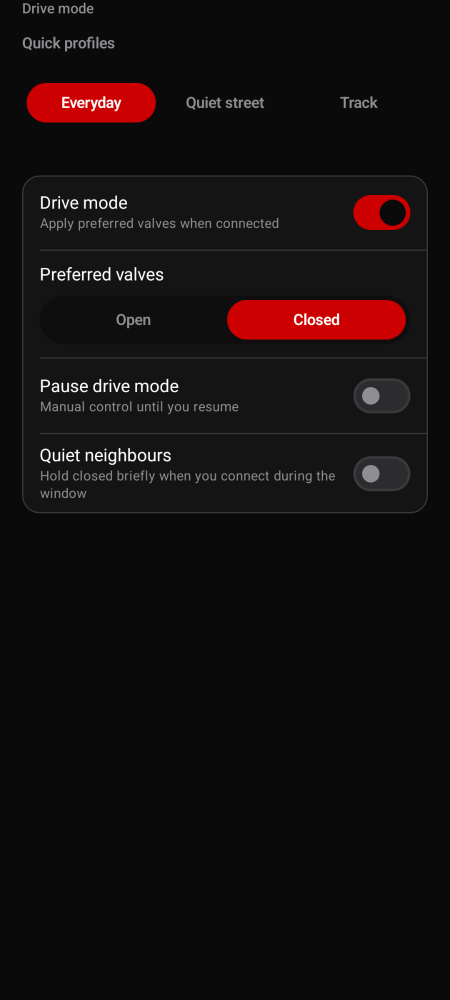
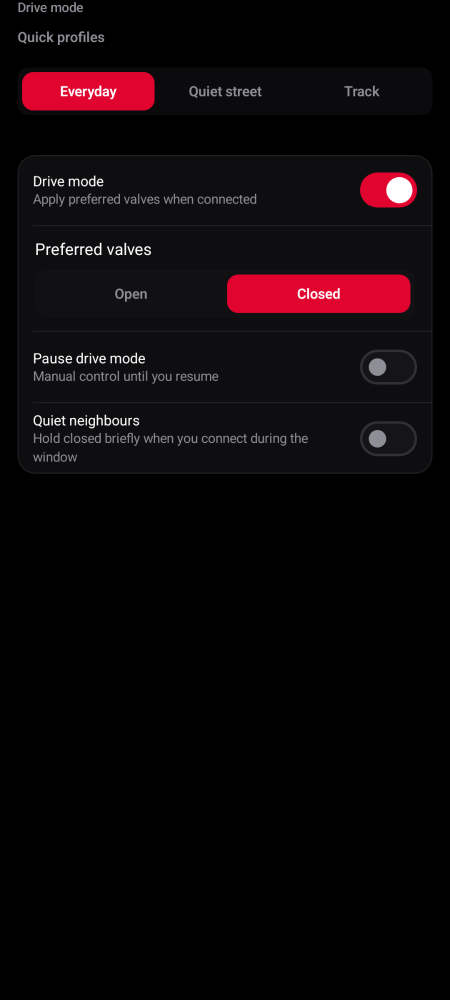
Document 0.3.4: redesign, fixes, and new features.
Store listing, release notes, and privacy policy cover the Wear tile, Activity, theme suggestion, and companion pairing. The style guide describes the flat Obsidian system and brand palettes; SPEC, DOCS, README, ROADMAP, TESTING, CHANGELOG, and DECISIONS match the code. Screenshots are refreshed. The API 27 navigation-bar attribute moves to values-v27 so lint passes, and CI installs SDK 35 for the watch build.

diff --git a/app/src/main/java/com/akrapovic/soundkit/community/ui/control/ConnectedDeviceScreen.kt b/app/src/main/java/com/akrapovic/soundkit/community/ui/control/ConnectedDeviceScreen.kt
@@ -23,7 +23,8 @@ import androidx.compose.runtime.LaunchedEffect
 import androidx.compose.runtime.getValue
 import androidx.compose.runtime.mutableIntStateOf
 import androidx.compose.runtime.mutableStateOf
-import androidx.compose.runtime.produceState
+import androidx.compose.runtime.mutableLongStateOf
+import androidx.compose.runtime.setValue
 import androidx.compose.runtime.remember
 import androidx.compose.ui.Alignment
 import androidx.compose.ui.Modifier
@@ -333,10 +334,12 @@ private fun ReceiverChip(state: SoundKitUiState, device: SoundKitDevice?) {
 /** "Confirmed just now", "Confirmed 12 s ago", or "Confirmed 3 min ago", refreshed every 10 s. */
 @Composable
 private fun rememberConfirmedLabel(confirmedAtMillis: Long?): String? {
-    val now by produceState(initialValue = System.currentTimeMillis(), confirmedAtMillis) {
+    var now by remember { mutableLongStateOf(System.currentTimeMillis()) }
+    LaunchedEffect(confirmedAtMillis) {
+        now = System.currentTimeMillis()
         while (confirmedAtMillis != null) {
-            value = System.currentTimeMillis()
             delay(10_000)
+            now = System.currentTimeMillis()
         }
     }
     if (confirmedAtMillis == null) return null

diff --git a/app/src/main/java/com/akrapovic/soundkit/community/companion/CompanionPairing.kt b/app/src/main/java/com/akrapovic/soundkit/community/companion/CompanionPairing.kt
@@ -12,6 +12,7 @@ import android.content.pm.PackageManager
 import android.os.Build
 import android.os.Handler
 import android.os.Looper
+import androidx.annotation.RequiresApi
 import java.util.Locale
 
 /**
@@ -65,6 +66,7 @@ object CompanionPairing {
                 onChooser(intentSender)
             }
 
+            @RequiresApi(Build.VERSION_CODES.TIRAMISU)
             override fun onAssociationCreated(associationInfo: AssociationInfo) {
                 onCreated(associationInfo.id)
             }

diff --git a/STYLE_GUIDE.md b/STYLE_GUIDE.md
@@ -60,21 +60,29 @@
 
 ## Visual language (Car Sound Kit Control)
 
-- **Workshop instrument**: warm charcoal depth, soft titanium lift, amber actions. Exhaust tip is the only loud moment.
-- Default Studio theme is **Studio Workshop** (warm charcoal / amber), not navy/blue. Brand garage themes keep their own accents.
-- Shell and surfaces use **subtle vertical gradients** (`gradientStart`→`gradientEnd`, `cardGradientStart`→`cardGradientEnd`) so panels read less flat; keep contrast calm.
-- **`AkraSurface` / `AkraListGroup`**: 20dp radius, soft hairline (`outlineVariant` ~55% alpha), theme card gradient fill. **`AkraElevated`**: same shape, light shadow for modals/empty/blocking only.
-- **`AkraButtonShape`**: 14dp soft rounded (not full pill, not hard square). Segments use **`AkraSegmentShape`** (12dp).
-- Prefer **`AkraListGroup` / `AkraListRow`** for Settings, More, and secondary actions — not a full card per row.
-- **`AkraHeroHeader`**: compact title + one subtitle on secondary screens; Home uses inline status + valve hero instead of a page hero.
-- **Status**: inline dot + text (`AkraInlineStatus`) or slim **`AkraBanner`** for errors/reconnect — not stacked cards with pills.
-- **`AkraStatusPill`**: warnings and onboarding badges only, not connection/valve state.
-- Primary screens use plain customer language: scan nearby, connect, open valves, close valves, drive mode, settings, diagnostics.
+- **Obsidian system**: true black (dark) or cool white (light), flat surfaces, white or near-black type, one brand accent. The exhaust-tip valve is the only rich, textured element.
+- **No gradients or shadows on chrome.** Screens use solid `colorScheme.background`; `AkraSurface` / `AkraListGroup` use solid `surface` plus a 1dp `outlineVariant` hairline (white 7% on dark, black 8% on light). `AkraElevated` is one tonal step (`surfaceVariant`), never a drop shadow.
+- **Shapes**: cards and groups 16dp, buttons 13dp (46dp minimum height), segments 10dp, status pills 6dp.
+- **Color roles**: `primary` = theme `button` (filled actions), `onPrimary` = `onButton`, `secondary` = theme `accent` (text, icons, links, toggles), `tertiary` = `glow` (valve heat). Never use `primary` for text.
+- **Type scale** (`ui/theme/Type.kt`): displaySmall 24sp for the valve state, titleLarge 17, titleMedium 15, bodyLarge 15, bodyMedium 13, bodySmall 12, labelLarge 13, labelSmall 11. Nothing smaller than 11sp.
+- **Brand palettes** (`ui/theme/GarageThemes.kt`), dark accent / glow / button:
+  - Studio: `#D6BD73` / `#D6BD73` / `#D6BD73` (black label)
+  - Akrapovič-inspired: `#E1173D` / `#E1173D` / `#E1173D`, carbon base `#0B0B0C`, heat-tinted titanium lip
+  - Audi RS: progressive red `#F50537` / `#F50537` / `#E0042F` (one step deeper so white labels reach 4.5:1)
+  - BMW M: `#00AEEF` / `#00AEEF` / `#0033A0`, M stripes `#00AEEF #0033A0 #E4002B`
+  - Mercedes-AMG: silver `#C8CCCE` / Petronas teal `#00A19B` / `#C8CCCE` (black label)
+  - Porsche: crest gold `#C69632` / Porsche red `#B12B28` / `#B12B28`
+  - Volkswagen R: `#4C86E8` / `#4C86E8` / Lapiz `#2A5DB8`
+  - Lamborghini: gold `#FFC000` / `#FFC000` / `#FFC000` (black label)
+  - Light variants use a darker accent that reaches 4.5:1 on white. `GarageThemeFamiliesTest` enforces contrast for every preset.
+- **Contrast rules**: text and muted text 4.5:1 on their surface, button labels 4.5:1 on the button, accents 3:1 on dark backgrounds and 4.5:1 on light.
+- Prefer **`AkraListGroup` / `AkraListRow`** (with `leadingIcon` where useful) for Settings, More, and Home rows — not a full card per row.
+- **`AkraHeroHeader`**: compact title + one subtitle on secondary screens. Home uses an app-title row, brand stripes, and a receiver chip instead of a page hero.
+- **Status**: receiver chip or slim **`AkraBanner`** for errors and reconnects. Command failures use `CommandFailureCopy` titles; an unconfirmed toggle reads as "checking", never as an error.
+- Primary screens use plain customer language: connect, open valves, close valves, drive mode, quiet start, activity.
 - Keep UUIDs, hashes, GATT details, raw logs, and reverse-engineering language inside Diagnostics or documentation.
-- Garage themes are brand-inspired families with Light/Dark variants. Themes change accent, background, and preview strip colors — layout stays the same.
-- Brand marks load from local `brand_*.xml` drawables. Only ship marks you have rights to use.
-- Prefer theme color roles (`MaterialTheme.colorScheme.onSurface`, `onSurfaceVariant`, etc.) over fixed white/gray text.
-- **Avoid**: hard-square CTAs, full-pill primary buttons, neon dashboard chrome, uppercase eyebrow labels on every screen, heavy multi-layer shadows on every block.
-- **`ValveVisual`** is the Home exhaust-tip hero: carbon sleeve, titanium lip, dark bore, hinged disc on a horizontal axis (face-on when closed, edge-on when open), amber heat glow when open. It may animate only for unknown/busy state and is static when reduced motion is enabled. Uses [`ExhaustTipPalette`](app/src/main/java/com/akrapovic/soundkit/community/ui/components/ExhaustTipPalette.kt). Layout: `fillMaxWidth()` × ~168dp on Home. Preview all states via **More → Advanced → Developer → Valve visual states**.
+- Garage themes are brand-inspired families with light and dark variants. Themes change accent, glow, and button colors — layout stays the same. Brand marks are local `brand_*.xml` drawables; never ship a manufacturer or Akrapovič logo.
+- **Avoid**: gradients on screens or cards, drop shadows, off-white or tinted text, hard-square CTAs, full-pill primary buttons, neon dashboard chrome, large display type for anything but the valve state.
+- **Valve art** (`ui/components/ValveArt.kt`) is shared by Home (`ValveVisual`, 200dp), Android Auto tiles and the widget (`ValveBitmaps`). Layers: carbon twill sleeve, bevel, brushed titanium lip (heat-tinted for the Akrapovič-inspired theme), deep bore, butterfly disc on a steel shaft with boss and end bolts, and, when open, the perforated baffle and an ember glow in the theme's `glow`. It animates only for unknown or busy states and is static with reduced motion. Preview all states via **More → Advanced → Developer → Valve visual states**.
 - Launcher artwork uses the photoreal exhaust-tip mark (`mipmap-*/ic_launcher_foreground.png` + dark adaptive background). Monochrome remains a vector silhouette. iOS ships the matching 1024px `AppIcon`.
 

diff --git a/DECISIONS.md b/DECISIONS.md
@@ -762,3 +762,148 @@ Docs describe the Wear tile as not shipped and say it does not control the valve
 ### Consequences
 
 - No surface claims Wear valve control until a working handoff ships.
+
+## 2026-10-18: Confine GATT callbacks to the main thread
+
+### Context
+
+GATT callbacks arrived on Binder threads while `writeCommand` ran on the main thread, so pending-command fields could race and produce a false "did not confirm".
+
+### Decision
+
+`connectGatt` passes a main-looper `Handler`, so every callback runs on the main thread; debug builds assert it. The manager also exposes when the valve state was last confirmed.
+
+### Consequences
+
+- Pending-command state is single-threaded without locks.
+- Home shows "Confirmed 12 s ago".
+
+## 2026-10-18: Flat brand-accurate themes and a compact type scale
+
+### Context
+
+The 0.3.2 workshop restyle used warm tints, gradients, shadows, and large type; owners found it hard to read. Brand themes also used approximate colors.
+
+### Decision
+
+All eight families are flat true black or cool white with one accent, glow, and button color taken from published brand colors (no official hex specs exist; BMW M blues, Audi aluminium silver, and VW R are the least certain). Audi's button is `#E0042F`, one step deeper than progressive red `#F50537`, so white labels reach 4.5:1. The type scale drops to 24sp for the valve state and 11–17sp elsewhere.
+
+### Consequences
+
+- `GarageThemeFamiliesTest` enforces contrast for every preset.
+- Theme ids are unchanged, so saved settings still load.
+
+## 2026-10-18: One valve renderer for phone, car, and widget
+
+### Context
+
+The Home valve, Android Auto tiles, and the widget each needed the exhaust-tip art, and Android Auto and RemoteViews cannot run Compose.
+
+### Decision
+
+`ValveArt` draws the tip on any `DrawScope`; `ValveVisual` uses it in Compose and `ValveBitmaps` renders cached bitmaps for Android Auto tiles and the widget.
+
+### Consequences
+
+- Car tiles show the real valve instead of a generic icon.
+- The art follows the theme's glow; the Akrapovič-inspired theme adds a heat-tinted lip.
+
+## 2026-10-18: Explain failed commands by cause
+
+### Context
+
+Every command failure showed "Connection issue", including an unconfirmed toggle that only needs a status re-read.
+
+### Decision
+
+`CommandFailureCopy` maps failures to a title and next step; an unconfirmed toggle reads "Valve didn't confirm — checking its position".
+
+### Consequences
+
+- Raw messages remain in diagnostics and Activity.
+
+## 2026-10-18: Plain notification errors and a quiet-start progress notification
+
+### Context
+
+The shade showed raw GATT status text and had no way to retry from an error.
+
+### Decision
+
+`ConnectionErrorCopy` turns errors into plain language and an Error state offers Retry. On Android 16 a quiet-start hold uses `Notification.ProgressStyle` with short critical text. The installed SDK has no API to request Live Update promotion, so none is requested.
+
+### Consequences
+
+- The countdown refreshes every 15 seconds while a hold runs.
+
+## 2026-10-18: Widget and Quick Settings show what a tap does
+
+### Context
+
+The widget's update flow was never collected, so it did not refresh while connected, and Quick Settings showed checking and not-ready as an ordinary inactive tile.
+
+### Decision
+
+The service now collects the widget flow; the widget shows the valve art, a status line, and one action, and greys out when the service stops. Quick Settings marks checking and not-ready as unavailable and spells out the action.
+
+### Consequences
+
+- Widget taps still start the foreground service and go through the coordinator.
+
+## 2026-10-18: Record the source of every valve command
+
+### Context
+
+Owners could not tell whether drive mode, quiet start, the watch, or a tap changed the valves.
+
+### Decision
+
+`ValveCommandCoordinator.open/close` take a `CommandSource` and log every request, including refused and no-op ones. Drive mode no longer logs its own results. **More → Activity** shows the last 100 entries.
+
+### Consequences
+
+- The log stays on the phone and is cleared from the Activity screen.
+
+## 2026-10-18: Suggest a theme from the car's Bluetooth name
+
+### Context
+
+Onboarding promised theme suggestions, but choosing the car's Bluetooth device in Settings did nothing visual.
+
+### Decision
+
+`CarBrandThemeMatcher` maps distinctive head-unit names (Audi MMI, BMW, MBUX, PCM, VW, Lamborghini) to a family and offers it once; "Not now" is remembered per device and not backed up.
+
+### Consequences
+
+- Ambiguous names such as "MB Bluetooth" are ignored.
+
+## 2026-10-18: Companion device pairing for background reconnects
+
+### Context
+
+Android 12+ limits starting foreground services from the background, which caused this release's crash fixes and made return-to-car reconnects less reliable.
+
+### Decision
+
+On Android 12+, Settings can associate the default receiver with `CompanionDeviceManager` and observe its presence (by association id on Android 16). `SoundKitCompanionService` connects only when `CompanionPresencePolicy` allows, and is enabled only on API 31+.
+
+### Consequences
+
+- Forgetting the receiver releases the association.
+- No location permission is involved.
+
+## 2026-10-18: Ship a real Wear OS tile
+
+### Context
+
+The 0.3.4 docs withdrew the Wear claim because the old tile launched a phone activity on the watch and did nothing.
+
+### Decision
+
+The watch app now uses the phone's application id so the Wearable Data Layer can link them. The phone publishes valve state and accepts Open/Close only while connected, through the coordinator as the Watch source. The watch build is 0.3.4 / versionCode 1000007 and signs with the same environment variables.
+
+### Consequences
+
+- This supersedes "Withdraw the Wear handoff claim".
+- The Play listing needs the Wear OS form factor enabled.

diff --git a/DOCS.md b/DOCS.md
@@ -30,7 +30,9 @@ ios/SoundKitCommunity/
 ### Android packages, build variants, and diagnostics
 
 - The release application ID is `com.akrapovic.soundkit.community`; the debug build adds `.debug` and `-debug`. There are no product flavors.
-- Before handing off an APK, run `./gradlew :app:testDebugUnitTest :app:verifyPaparazziDebug :app:assembleDebug :wear:assembleDebug`.
+- Before handing off an APK, run `./gradlew :app:testDebugUnitTest :app:verifyPaparazziDebug :app:assembleDebug :wear:assembleDebug :app:lintDebug`.
+- The Wear OS tile reads valve state published by `WearStatePublisher` (DataItem `/soundkit/state`) and sends `/soundkit/open` or `/soundkit/close`. `WearCommandListenerService` accepts them only while the receiver is connected and runs them through `ValveCommandCoordinator` as the Watch source. Debug phone and watch builds both use `com.akrapovic.soundkit.community.debug` so they pair with each other.
+- Companion pairing (Android 12+): `CompanionPairing` associates the default receiver and starts presence observation; `SoundKitCompanionService` is enabled only on API 31+ through `@bool/companion_service_enabled`.
 - The Android foreground service owns connection lifetime. Every command surface—including the Compose UI, notification, Quick Settings, widget, drive mode, and Car App—uses `ValveCommandCoordinator`; only `BleConnectionManager` performs GATT discovery, subscription, and transport.
 - Android launcher shortcuts provide **Open valves**, **Close valves**, and **Valve status** through the internal `AssistantActionActivity` and `VoiceValveActionRouter`. The router accepts no BLE address or command extras, resolves only the saved default receiver, reconnects only to that receiver for at most 8 seconds, waits for the first receiver status, and delegates mutations exclusively to `ValveCommandCoordinator`. A command is successful only after the coordinator's notification-confirmed hardware result.
 - Static shortcuts set `targetPackage` explicitly. `app/src/debug/res/xml/shortcuts.xml` repeats them with the `.debug` package; keep both copies in sync.
@@ -154,7 +156,7 @@ Entry: **Settings** (full controls) or **Home** shortcut → Drive mode screen.
 
 ## UI System
 
-The app uses a workshop-instrument companion UI built from reusable Compose components in `ui/components`. Prefer calm hierarchy, soft 14–20dp radii (not hard squares or full pills), subtle shell/card gradients, concise headers, and large touch targets. Default Studio theme is warm charcoal with amber actions; brand garage themes keep their own accents. Garage themes are persisted in DataStore and applied app-wide through `SoundKitTheme`; each brand-inspired family has explicit Light and Dark variants plus a local `brand_*.xml` mark that can be replaced with assets the user has rights to use.
+The app uses a flat, true-black companion UI built from reusable Compose components in `ui/components`: solid surfaces with hairlines, no gradients or shadows, a compact type scale, and the detailed exhaust-tip valve (`ValveArt`) as the one rich element. Brand garage themes set the accent, valve glow, and button color; see `STYLE_GUIDE.md`. Garage themes are persisted in DataStore and applied app-wide through `SoundKitTheme`; each brand-inspired family has explicit Light and Dark variants plus a local `brand_*.xml` mark that can be replaced with assets the user has rights to use.
 
 **More tab:** **Settings** and **Appearance** are the primary destinations. **Advanced** opens a hub for Diagnostics, Android Auto setup, Roadmap, and Developer (detailed logs).
 

diff --git a/SPEC.md b/SPEC.md
@@ -41,8 +41,11 @@ flowchart TD
 ## Release and privacy boundaries
 
 - The phone module targets Android 16 (`compileSdk` and `targetSdk` 36) so a
-  new Play app can be uploaded. The Wear module stays at 35 and is not in the
-  Play bundle.
+  new Play app can be uploaded. The Wear module targets 35, shares the phone's
+  application id (`com.akrapovic.soundkit.community`, versionCode 1000007) so the
+  Wearable Data Layer links them, and ships on the internal track as a Wear OS
+  artifact. The watch sends Open/Close only; the phone accepts them only while
+  connected and runs them through `ValveCommandCoordinator`.
 - Release Android Car App sessions validate the official Android Auto and
   Automotive host package signing certificates from
   `soundkit_car_app_hosts_allowlist`. Six digests matched the AndroidX
@@ -93,7 +96,12 @@ flowchart TD
 - Settings screen controls auto-reconnect, detailed local logging, remembered receiver removal (with confirmation dialog), and background connection reliability.
 - Disconnect and Forget receiver actions show a confirmation `AlertDialog` to prevent accidental in-car taps.
 - A blocking first-run "Use at your own risk" dialog is shown until the user accepts; the acceptance timestamp is persisted in DataStore.
-- Garage themes are persisted in DataStore and apply app-wide. Default Studio is **Studio Workshop** (warm charcoal, soft titanium lift, amber actions) with subtle shell/card gradients and soft 14–20dp radii. Themes are grouped into brand-inspired families, each with explicit Light and Dark variants, local brand mark drawables, and theme-driven gradients.
+- Garage themes are persisted in DataStore and apply app-wide. Every theme is flat: true black (dark) or cool white (light), white or near-black text, and one brand accent, glow, and button color (see `STYLE_GUIDE.md`). Families: Studio (default), Akrapovič-inspired, Audi RS, BMW M, Mercedes-AMG, Porsche, Volkswagen R, Lamborghini. Android Auto, the widget, and the watch use the family's dark variant.
+- The valve art (`ValveArt`) is shared by Home, Android Auto tiles, and the widget, with the theme's glow and, for the Akrapovič-inspired theme, a heat-tinted lip.
+- Choosing the car's Bluetooth device offers the matching brand theme once (`CarBrandThemeMatcher`); "Not now" is remembered per device.
+- Every valve command records its source (phone, notification, Quick Settings, widget, Android Auto, shortcut, watch, drive mode, quiet start) and outcome; **More → Activity** lists the last 100.
+- On Android 12+, "Wake when the receiver is nearby" associates the default receiver through `CompanionDeviceManager`. `SoundKitCompanionService` connects only when `CompanionPresencePolicy` allows; forgetting the receiver releases the association.
+- On Android 16 a quiet-start hold shows a progress-style countdown notification (no Live Update promotion; the SDK lacks the request API).
 
 ## Background Behavior
 

diff --git a/ROADMAP.md b/ROADMAP.md
@@ -27,7 +27,7 @@ Living direction for **Sound Kit Community**. It distinguishes code present in t
 | **Exhaust-tip visual and launcher mark** | Procedural carbon/titanium exhaust-tip `ValveVisual`, state gallery, visual regression coverage, Android adaptive icon assets, and matching iOS app icon asset. |
 | **Saved receivers and connection policies** | Up to eight receivers, nickname/default/forget, local backup import/export, independent `connectOnLaunch` and `connectInCar`, head-unit priority, contention yield, and Take control. |
 | **Drive mode** | Preferred Open/Closed once per drive (a BLE reconnect keeps a manual change), quiet-neighbours window with editable/overnight times, profiles, notification pause/resume, and manual override per session. It replaced the former rules, schedules, and geofencing experiment. |
-| **Android companion surfaces** | Notification and Quick Settings safety gating, widget/launcher shortcuts, a Wear tile (not shipped; phone handoff not implemented), and an IoT Car App `GridTemplate` with constant titles and parked-only Open/Close actions. |
+| **Android companion surfaces** | Notification and Quick Settings safety gating, widget/launcher shortcuts, a Wear OS tile linked through the Wearable Data Layer, an Activity history, companion-device wake, and an IoT Car App `GridTemplate` with constant titles and parked-only Open/Close actions. |
 | **Android shortcuts, not custom Assistant App Actions** | Internal Open, Close, and Status launcher shortcuts use a closed action enum, saved default receiver, eight-second reconnect bound, and `ValveCommandCoordinator`. No custom Google Assistant App Action is declared or claimed. |
 | **iOS dev v1 parity** | Committed SwiftUI/CoreBluetooth project with GATT lifecycle, state-confirmed commands, onboarding, receiver/settings management, drive mode, diagnostics, backups, theme, status `04` help, and XCTest/CI coverage. |
 | **iOS Siri** | Open, Close, and status App Intents route through `ValveControlCoordinator`; success is spoken only after notification confirmation. Siri does not depend on CarPlay approval. |

diff --git a/TESTING.md b/TESTING.md
@@ -290,6 +290,13 @@ If the app crashes, reopen it and go to `More -> Diagnostics`. A crash panel app
 16. **Command timeout:** if a command shows “did not confirm”, every surface shows Checking/waiting and refuses Open/Close until the receiver reports status again.
 17. **Launcher shortcuts:** `adb shell dumpsys shortcut` lists open_valves, close_valves, and valve_status for the installed package; launch each from the launcher icon.
 18. **Widget after stop:** force-stop the app with the widget on the home screen → the widget no longer shows a live valve state.
+19. **Redesign:** check Home, onboarding, scan, Drive mode, Settings, and Activity in Studio dark, Studio light, Audi RS dark, and the Akrapovič-inspired theme; text is readable outdoors and no screen shows a gradient or shadow.
+20. **Confirmation line:** after a status arrives, Home shows "Confirmed just now", then "Confirmed 12 s ago".
+21. **Activity:** change the valves from the phone, notification, Quick Settings, widget, and Android Auto; More → Activity lists each with its source.
+22. **Theme suggestion:** Settings → Car Bluetooth → pick the car; a matching brand theme is offered once; "Not now" is not offered again.
+23. **Companion pairing (Android 12+):** turn on "Wake when the receiver is nearby", accept the system dialog, force-stop the app, power-cycle the receiver → the app reconnects with no crash. Forget the receiver → the association is removed.
+24. **Quiet-start countdown (Android 16):** start a quiet hold → the notification shows a progress bar and "Opens m:ss".
+25. **Wear OS:** pair a Wear OS emulator (API 33+) with the phone emulator using Android Studio's pairing assistant and install both debug builds. The tile shows "Phone not connected" until the phone connects; tapping "Open phone app" opens the phone app. On real hardware, while parked and connected, Open and Close from the watch move the valves and appear in Activity as Watch.
 
 ### Command Smoke Pass
 

diff --git a/CHANGELOG.md b/CHANGELOG.md
@@ -12,7 +12,20 @@ Android releases of Car Sound Kit Control. Store text lives in `play/listing/en-
 - A BLE reconnect no longer reopens valves you closed; drive mode applies once per drive.
 - Open valves, Close valves, and Valve status launcher shortcuts now launch.
 - Shortcuts wait for the receiver's first status instead of failing right after connecting.
-- The home-screen widget clears its live valve state when the service stops.
+- The home-screen widget clears its live valve state when the service stops, and now refreshes while connected (its update flow was never collected).
+- Bluetooth callbacks run on the main thread, removing a race that could report a false "did not confirm".
+- Notification errors use plain language and offer Retry.
+- Failed commands explain the cause; an unconfirmed toggle reads as "checking".
+
+### Added
+
+- New flat black and white design with brand-accurate garage themes and a smaller type scale.
+- Detailed exhaust-tip valve art, also used for Android Auto tiles and the widget.
+- Activity: every valve change with its source.
+- Theme suggestion from the car's Bluetooth name.
+- "Wake when the receiver is nearby" (Android 12+ companion pairing).
+- Quiet-start progress countdown on Android 16.
+- Wear OS tile that shows the valves and changes them through the phone (watch build 1000007).
 
 ### Changed
 

diff --git a/play/privacy-policy.md b/play/privacy-policy.md
@@ -1,7 +1,7 @@
 # Privacy policy
 
 **Car Sound Kit Control**  
-Last updated: 18 October 2026
+Last updated: 18 October 2026 (0.3.4)
 
 Car Sound Kit Control is an independent app published by Apps for Good Product Studio. It is not affiliated with Akrapovič.
 
@@ -26,6 +26,14 @@ The app uses Bluetooth to find the receiver and send valve commands. On Android 
 ## Android Auto
 
 On a car display, the app shows only valve status and Open, Close, and Retry controls. It reads no vehicle data.
+
+## Wear OS
+
+The watch app exchanges only the valve state and Open or Close requests with the phone app, through Google Play services' Wearable Data Layer. The app sends no receiver address to the watch and uploads nothing.
+
+## Companion pairing
+
+On Android 12 and newer you can turn on "Wake when the receiver is nearby". Android's companion device feature then tells the app when the paired receiver is in range. The app does not request or collect location for this.
 
 ## Children
 

diff --git a/README.md b/README.md
@@ -103,7 +103,9 @@ Testing strategy and the physical receiver smoke checklist are documented in `TE
 - Launcher shortcuts for Open, Close, and Valve status
 - Local diagnostics log and export
 - Local-only Android Auto IoT template surface (Open and Close work only while parked)
-- Wear OS tile module in the repo only; it is not shipped and does not control the valves
+- Wear OS tile that shows the valve state and sends Open/Close through the phone
+- Activity history of every valve change and its source
+- Wake when the receiver is nearby (Android 12+ companion pairing)
 - Hilt dependency injection
 - DataStore settings
 - Debug Timber logging
